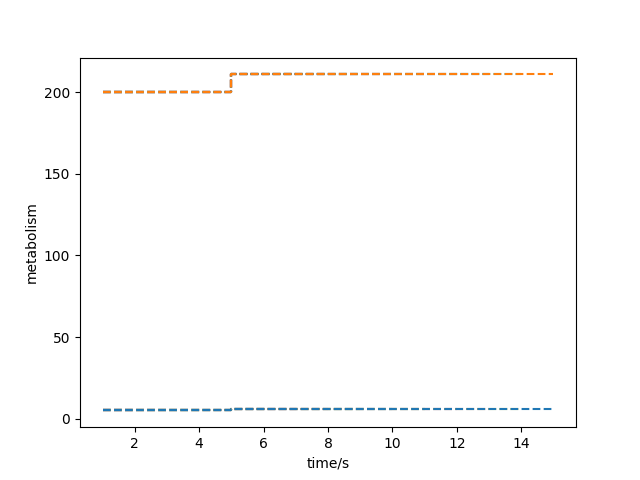
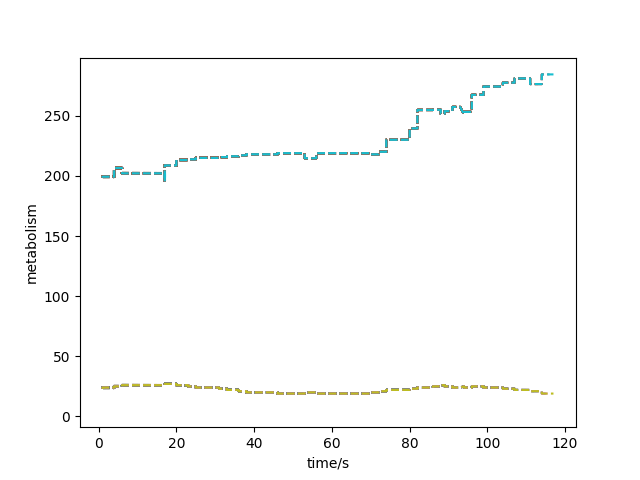
starting to refactor and changing colours

diff --git a/evolution sim/simulation run.py b/evolution sim/simulation run.py
@@ -46,10 +46,18 @@ def calculate_mutation(slime1, slime2, attribute_name):
 
     # Calculate the mutation range based on those values
     combined_val = val1 + val2
-    lower_bound = round(-1 * mutation_value * combined_val)
-    upper_bound = round(mutation_value * combined_val)
+    lower_bound = round(-1 * mutation_value * combined_val/2)
+    upper_bound = round(mutation_value * combined_val / 2)
+    sigma = round(mutation_value * combined_val / 2)
 
-    return random.randint(lower_bound, upper_bound)
+    mutation_delta = random.gauss(0, sigma)
+
+    if mutation_delta < lower_bound:
+        mutation_delta = lower_bound
+    if mutation_delta > upper_bound:
+        mutation_delta = upper_bound
+
+    return mutation_delta
 
 def calculate_colour(slime1,slime2):
 
@@ -73,21 +81,21 @@ def calculate_colour(slime1,slime2):
 
 def Create_new_slime(slime1,slime2,berry_list):
 
-    size = round((slime1.size + slime2.size) / 2) + calculate_mutation(slime1, slime2, 'size')
+    size = round(round((slime1.size + slime2.size) / 2) + calculate_mutation(slime1, slime2, 'size'))
     speed = (slime1.speed + slime2.speed)/2 + calculate_mutation(slime1,slime2,'speed')
     sight = (slime1.sight + slime2.sight) / 2 + calculate_mutation(slime1, slime2, 'sight')
     max_hunger = round((slime1.max_hunger + slime2.max_hunger)/2) + calculate_mutation(slime1,slime2,'max_hunger')
     metabolism = (slime1.metabolism + slime2.metabolism)/2 + calculate_mutation(slime1,slime2,'metabolism')
     current_hunger = max_hunger*0.6
     colour = calculate_colour(slime1,slime2)
-    agression = (slime1.agression + slime2.agression)/2 + calculate_mutation(slime1,slime2,'agression')
+    aggression = (slime1.aggression + slime2.aggression)/2 + calculate_mutation(slime1,slime2,'aggression')
     lifespan = (slime1.lifespan + slime2.lifespan)/2 + calculate_mutation(slime1,slime2,'lifespan')
     cx = (slime1.cx + slime2.cx)/2
     cy = (slime1.cy + slime2.cy)/2
     dead = False
     berries = berry_list
 
-    return speed,max_hunger,metabolism,current_hunger,colour,size,agression,sight,cx,cy,dead,berries,lifespan
+    return speed,max_hunger,metabolism,current_hunger,colour,size,aggression,sight,cx,cy,dead,berries,lifespan
 
 #set screen size
 
@@ -108,19 +116,19 @@ count = 0
 game_state = "MENU"
 centre_x = screen_width//2
 stat_font = pygame.font.SysFont('Arial', 16, bold = True)
-start_btn = ui.Button(centre_x - 400, 150, 800, 200, "start", (0, 200, 0), (0, 150, 0), stat_font)
-settings_btn = ui.Button(centre_x - 400, 400, 800, 200, "settings", (0, 200, 0), (0, 150, 0), stat_font)
-exit_btn = ui.Button(centre_x - 400, 650, 800, 200, "exit", (0, 200, 0), (0, 150, 0), stat_font)
+start_btn = ui.Button(centre_x - 400, 150, 800, 200, "start", pygame.Color("#97051D"), pygame.Color("#EF233C"), stat_font)
+settings_btn = ui.Button(centre_x - 400, 400, 800, 200, "settings", pygame.Color("#97051D"), pygame.Color("#EF233C"), stat_font)
+exit_btn = ui.Button(centre_x - 400, 650, 800, 200, "exit", pygame.Color("#97051D"), pygame.Color("#EF233C"), stat_font)
 
 #game
-speed_slider = ui.Slider(20, 150, 200, 20, 10, 200, 60, "speed", "blue")
-simulation_box = ui.Box(0,0,1360,980,"blue")
+speed_slider = ui.Slider(20, 800, 200, 20, 10, 200, 60, "speed", pygame.Color("#F0F2D5"))
+simulation_box = ui.Box(0,0,1360,980,pygame.Color("#EF233C"))
 #settings
-size_slider = ui.Slider(centre_x - 100, 150, 200, 20, 1, 20, 5, "size", "blue")
-nslimes_slider = ui.Slider(centre_x - 100, 200, 200, 20, 1, 50, 5, "num of slimes", "blue")
-nberries_slider = ui.Slider(centre_x - 100, 250, 200, 20, 10, 200, 80, "num of berries", "blue")
-mutation_slider = ui.Slider(centre_x - 100, 300, 200, 20, 0.1, 2, 0.2, "variation of mutations", "blue")
-back_button = ui.Button(centre_x - 800, 200, 100, 50, "back", (0, 150, 0), (0, 200, 0), stat_font)
+size_slider = ui.Slider(centre_x - 100, 150, 200, 20, 1, 20, 5, "size", pygame.Color("#F0F2D5"))
+nslimes_slider = ui.Slider(centre_x - 100, 200, 200, 20, 1, 50, 5, "num of slimes", pygame.Color("#F0F2D5"))
+nberries_slider = ui.Slider(centre_x - 100, 250, 200, 20, 10, 200, 80, "num of berries", pygame.Color("#F0F2D5"))
+mutation_slider = ui.Slider(centre_x - 100, 300, 200, 20, 0.1, 0.9, 0.2, "variation of mutations", pygame.Color("#F0F2D5"))
+back_button = ui.Button(centre_x - 850, 900, 100, 50, "back", pygame.Color("#97051D"), pygame.Color("#EF233C"), stat_font)
 
 def start_simulation(berry_num,slime_num,slime_size):
     slimes_list.clear()
@@ -144,7 +152,7 @@ def start_simulation(berry_num,slime_num,slime_size):
                                  size=slime_size,
                                  sight=50,
                                  metabolism=200,
-                                 agression=1,
+                                 aggression=1,
                                  cx=random.randint(start_size,Oslime.screen_widthS-start_size),
                                  cy=random.randint(start_size,Oslime.screen_heightS-start_size),
                                  dead=False,
@@ -208,9 +216,12 @@ while running:
         #set starting parameters
         starting_parameters = start_simulation(berries_num,slime_num,start_size)
 
+
+
         start_avgs = starting_parameters[0]
         slimes_list = starting_parameters[1]
         berry_list = starting_parameters[2]
+        total_deaths_from_age = 0
         #reset graphs
         timer = 0
         sec_timer = 0
@@ -229,27 +240,32 @@ while running:
             slime[0].eat()
             slime[0].move(slimes_list)
             slime[1] = slime[0].lose_hunger(slime[1])
-            slime[0].reducelifespan()
+            if slime[0].reducelifespan():
+                total_deaths_from_age += 1
+                print(f"total deaths from age = {total_deaths_from_age}")
+
+
             if partner is not None:
                 if slime[0].Can_copy and partner.Can_copy:
                     slime[0].Can_copy = False
                     partner.Can_copy = False
-                    new_slime_attributes = Create_new_slime(slime[0],partner,berry_list)
-                    new_slime = [Oslime.Slime(speed=new_slime_attributes[0],
+                    for i in range(1,random.randint(1,4)):
+                        new_slime_attributes = Create_new_slime(slime[0],partner,berry_list)
+                        new_slime = [Oslime.Slime(speed=new_slime_attributes[0],
                                               max_hunger=new_slime_attributes[1],
                                               metabolism=new_slime_attributes[2],
                                               current_hunger=new_slime_attributes[3],
                                               colour=new_slime_attributes[4],
                                               size=new_slime_attributes[5],
                                               sight=new_slime_attributes[7],
-                                              agression=new_slime_attributes[6],
+                                              aggression=new_slime_attributes[6],
                                               cx=new_slime_attributes[8],
                                               cy=new_slime_attributes[9],
                                               dead=new_slime_attributes[10],
                                               berries=new_slime_attributes[11],
                                               lifespan = new_slime_attributes[12])
-                    , 0]
-                    slimes_list.append(new_slime)
+                        , 0]
+                        slimes_list.append(new_slime)
                     slime[0].current_hunger = slime[0].current_hunger * 0.6
                     partner.current_hunger = partner.current_hunger * 0.6
                     partner = None
@@ -257,13 +273,15 @@ while running:
             if slime[0].dead:
                 slimes_to_remove.append(slime)
 
+
         # 3. Now, safely remove the dead slimes AFTER the main loop is done
         for dead_slime in slimes_to_remove:
             slimes_list.remove(dead_slime)
+
         for berry_data in berry_list:
             berry_data[1] = berry_data[0].reset(berry_data[1])
 
-        screen.fill((0, 0, 0))
+        screen.fill((10, 10, 10))
 
         for berry_data in berry_list:
             berry_data[0].create()
@@ -275,11 +293,13 @@ while running:
         back_button.draw(screen)
         simulation_box.draw(screen)
         if slimes_list != []:
-            ui.draw_stats(screen, stat_font, slimes_list, start_avgs)
+            ui.draw_stats(screen, stat_font, slimes_list, start_avgs, total_deaths_from_age)
+
+
 
 
         #print graphs
-
+        """
         if timer%60 == 0:#makes it so only creates a graph every 60 frames
             sec_timer += 1
             plotting.plot(time_plot, population_plot, "time/s", "population")
@@ -300,6 +320,7 @@ while running:
         #display the graph
         screen.blit(pop_graph_image, (1380, 0))
         screen.blit(met_graph_image, (1380, 300))
+        """
     # 5. Update the display
     pygame.display.flip()
 

diff --git a/evolution sim/ui.py b/evolution sim/ui.py
@@ -90,6 +90,7 @@ def get_averages(slimes,surface,font):
     total_size = 0
     total_sight = 0
     total_metabolism = 0
+    total_age = 0
 
     # Sum up attributes
     for slime_data in slimes:
@@ -99,20 +100,22 @@ def get_averages(slimes,surface,font):
         total_size += s.size
         total_sight += s.sight
         total_metabolism += s.metabolism
+        total_age += s.age
 
     # Calculate averages
     avg_speed = total_speed / count
     avg_size = round(total_size / count, 2)
     avg_sight = round(total_sight / count, 2)
     avg_meta = round(total_metabolism / count, 2)
+    avg_age = round(total_age / count, 2)
 
-    return count, avg_speed, avg_size, avg_sight, avg_meta
+    return count, avg_speed, avg_size, avg_sight, avg_meta, avg_age
 
 
 
-def draw_stats(surface, font, slimes, start_stats):
-    s_count, s_speed, s_size, s_sight, s_metabolism = start_stats
-    count, avg_speed, avg_size, avg_sight, avg_meta = get_averages(slimes,surface,font)
+def draw_stats(surface, font, slimes, start_stats, total_death_from_age):
+    s_count, s_speed, s_size, s_sight, s_metabolism, s_age = start_stats
+    count, avg_speed, avg_size, avg_sight, avg_meta, avg_age = get_averages(slimes,surface,font)
     # Create text surfaces
     # render(Text, Antialias, Color)
     pop_text = font.render(f"Population: {count}, Start: {s_count}", True, (255, 255, 255))
@@ -120,7 +123,8 @@ def draw_stats(surface, font, slimes, start_stats):
     size_text = font.render(f"Avg Size: {avg_size}, Start: {s_size}", True, (255, 255, 255))
     sight_text = font.render(f"Avg Sight: {avg_sight}, Start: {s_sight}", True, (255, 255, 255))
     meta_text = font.render(f"Avg Metabolism: {avg_meta}, Start: {s_metabolism}", True, (255, 255, 255))
-
+    age_text = font.render(f"Avg age: {avg_age}, Start: {s_age}", True, (255, 255, 255))
+    agedeath_text = font.render(f"slimes Dead from age: {total_death_from_age} slimes", True, (255, 255, 255))
     # Blit (draw) them to the screen
     x_pos = 10
     y_pos = 10
@@ -131,7 +135,8 @@ def draw_stats(surface, font, slimes, start_stats):
     surface.blit(size_text, (x_pos, y_pos + line_height * 2))
     surface.blit(sight_text, (x_pos, y_pos + line_height * 3))
     surface.blit(meta_text, (x_pos, y_pos + line_height * 4))
-
+    surface.blit(age_text, (x_pos, y_pos + line_height * 5))
+    surface.blit(agedeath_text, (x_pos, y_pos + line_height * 6))
 class Box:
     def __init__(self, x, y, width, height, colour):
         self.rect = pygame.Rect(x, y, width, height)

diff --git a/evolution sim/Oslime.py b/evolution sim/Oslime.py
@@ -2,6 +2,8 @@ import math
 import pygame
 import random
 
+#TOTAL_NATDEATH = 0
+#TOTAL_STARVEDEATH = 0
 def calculate_distance(x1, y1, x2, y2):
     return math.sqrt(math.pow(x1 - x2, 2) + math.pow(y1 - y2, 2))
 def check_collision(x1,y1,x2,y2):
@@ -20,7 +22,7 @@ class Slime:
                  current_hunger,
                  colour,
                  size,
-                 agression,
+                 aggression,
                  sight,
                  cx,
                  cy,
@@ -36,17 +38,21 @@ class Slime:
         self.current_hunger = current_hunger
         self.colour = colour
         self.size = size
-        self.agression = agression
+        self.aggression = aggression
         self.sight = sight
         self.cx = cx
         self.cy = cy
         self.posX,self.posY = self.selectlocation([])
         self.lifespan = lifespan
+        self.age = 0
 
     def reducelifespan(self):
-        self.lifespan -= 1
-        if self.lifespan < 0:
+        self.age += 1
+        if self.age >= self.lifespan:
             self.dead = True
+            return True
+        return False
+
     #function to create slimes at start
     def create(self):
 
@@ -61,8 +67,8 @@ class Slime:
         else:
             return False
     def Reproduce(self,slime, debug=False):
-        if debug:
-            print("reproducing")
+
+        #print("reproducing")
 
         self.Can_copy = True
         partner = slime
@@ -125,7 +131,8 @@ class Slime:
 
     def diehunger(self):
         if self.current_hunger <= 0:
-
+            #TOTAL_STARVEDEATH += 1
+            #print(f"total deaths by starvation = {TOTAL_STARVEDEATH}")
             return True
         return False
 
@@ -135,7 +142,7 @@ class Slime:
         if count >= self.metabolism - self.speed*100 - self.sight/2:
             self.dead = self.diehunger()
             self.current_hunger -= 1
-            print(f"current hunger: {self.current_hunger}")
+            #print(f"current hunger: {self.current_hunger}")
             count = 0
         return count
 
